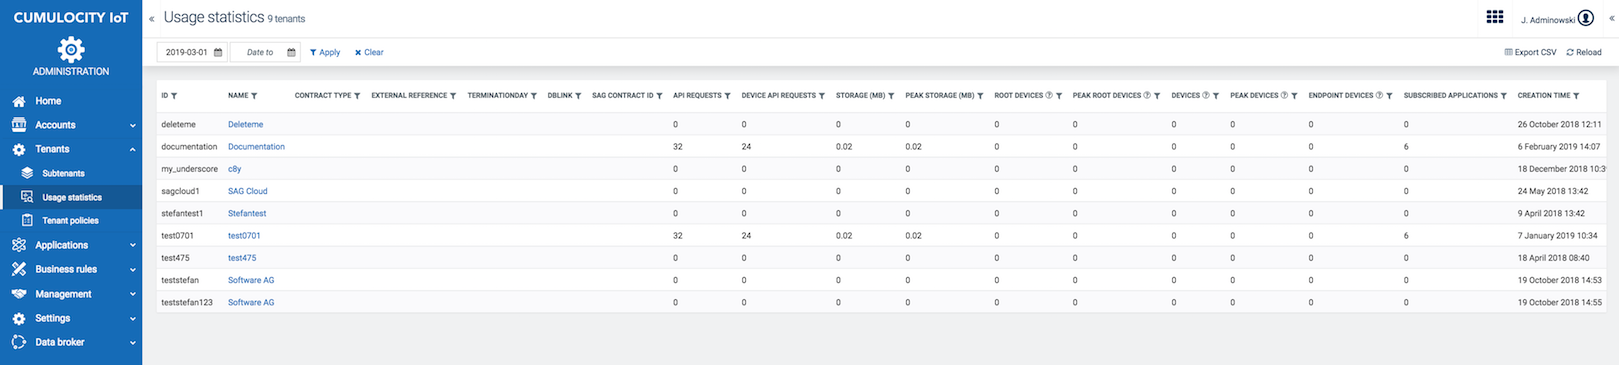
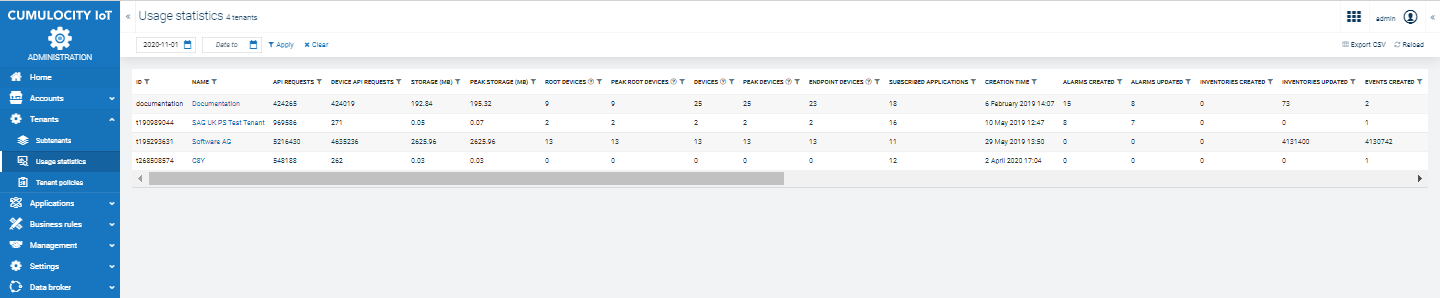
Merged in improvement/MTM-31819 (pull request #376)
Jira Ticket MTM-31819. Updating usage statistics screenshot.

Approved-by: Beate Rixen <beate.rixen@cumulocity.com>

diff --git a/content/users-guide/enterprise-edition-bundle/usage-and-billing.md b/content/users-guide/enterprise-edition-bundle/usage-and-billing.md
@@ -29,6 +29,10 @@ The following information is provided for each subtenant (not completely visible
 <td align="left">ID of the subtenant</td>
 </tr>
 <tr>
+<td align="left">Name</td>
+<td align="left">Name of the subtenant</td>
+</tr>
+<tr>
 <td align="left">API requests</td>
 <td align="left">Total number of API requests, including requests from  devices and applications</td>
 </tr>
@@ -133,7 +137,7 @@ Custom properties may be defined in the [Properties Library](/users-guide/admini
 
 You can filter the usage statistics list for a time period by adding the start and end date in the top menu bar and click **Filter**. The **Usage statistics** page will show the numbers for all subtenants for this time period.
 
->**Info:** If a tenant was created after the selected time period, it will show up but the numbers are "0". 
+>**Info:** If a tenant was created after the selected time period, it will show up but the numbers are "0".
 
 You can also filter and sort the list on any column by clicking the filter icon next to the column name and providing the filtering criteria. See also [Getting Started > UI functionalities and features > Filtering](/users-guide/getting-started/#filtering).
 
@@ -267,12 +271,12 @@ The request will be billed to the day 25.08.2020 as this is the server time of t
 |Time zone| UTC |UTC|
 |Send measurement time | 26.08.2020T01:30:00Z| 26.08.2020T01:30:00Z|
 
-**Result:** 
+**Result:**
 
 The request will be billed to the day 26.08.2020 as the server time is the same as the device time.
 <br><br>
 
-##### Microservice resource billing - Example 1 
+##### Microservice resource billing - Example 1
 
 ||User| Server|
 |:---|:----|:-----|
@@ -280,7 +284,7 @@ The request will be billed to the day 26.08.2020 as the server time is the same 
 |Subscribe time | 26.08.2020T12:00:00+02:00| 26.08.2020T10:00:00Z|
 |Unsubscribe time | 27.08.2020T12:00:00+02:00| 27.08.2020T10:00:00Z|
 
-**Result:** 
+**Result:**
 
 The resources will be assigned mainly to the day 26.08.2020 as according to the UTC time zone the microservice was active for 14 hours that day and for 10 hours the next day. This might be a bit different from what a user expects as from his perspective the microservice was active for 12 hours each day.
 <br><br>
@@ -293,12 +297,12 @@ The resources will be assigned mainly to the day 26.08.2020 as according to the 
 |Subscribe time | 26.08.2020T12:00:00+14:00| 25.08.2020T22:00:00Z|
 |Unsubscribe time | 26.08.2020T20:00:00+14:00| 26.08.2020T06:00:00Z|
 
-**Result:** 
+**Result:**
 
 From the user perspective the microservice was subscribed for 8 hours at 26.08.2020 but at server time it was 2 hours before EOD of 25.08.2020 and 6 hours after BOD at 26.08.2020.
 <br><br>
 
-##### Microservice resource billing - Example 3 
+##### Microservice resource billing - Example 3
 
 ||User| Server|
 |:---|:----|:-----|
@@ -306,7 +310,7 @@ From the user perspective the microservice was subscribed for 8 hours at 26.08.2
 |Subscribe time | 26.08.2020T12:30:00+2:00| 25.08.2020T23:30:00Z|
 |Unsubscribe time | 26.08.2020T13:00:00+2:00| 25.08.2020T24:00:00Z|
 
-**Result:** 
+**Result:**
 
 In this case we have a big time shift between the server and the user time. All resources will be billed to the day 25.08.2020 according to the server time.
 
@@ -333,11 +337,11 @@ A Cumulocity IoT platform tenant can have several states:
   * Suspended - Suspended tenants are not billed for request count and microservice resources, the only value that is still counted is storage size. The microservice resource usage is billed as "used", i.e. when the tenant is switched to suspended state all microservices are stopped so there are no resources to bill.
   * Deleted - This is the point of no return. The tenant is not billed for any resources but there is no way of restoring the data also.
 
-  
+
 **Microservice**
 
 Any extension deployed to the platform as a microservice is billed as "used" and the billing starts according to the begin of usage. After the application is subscribed to the tenant a process of application startup is triggered which will go through several high level phases:
-  
+
   * Scheduled - The microservice has been scheduled to be started but the Docker container is not running yet. In this state the microservice is not yet billed.
   * Not ready - The microservice container is not ready yet to handle incoming traffic but the application is already running so billing is started.
   * Ready - The microservice container is ready to handle incoming traffic. "Ready" is resolved based on liveness and readiness probes defined in the [microservice manifest](/microservice-sdk/concept/#manifest). If probes are not defined then the microservice is immediately ready.
@@ -360,7 +364,7 @@ Audit logs and events are stored at tenant space according to the isolation leve
 
 ### Billing pricing models
 
-The Cumulocity IoT platform collects a lot of different usage statistics data which is used for billing customers. 
+The Cumulocity IoT platform collects a lot of different usage statistics data which is used for billing customers.
 
 Based on the contract, there are two pricing models for billing:
 
